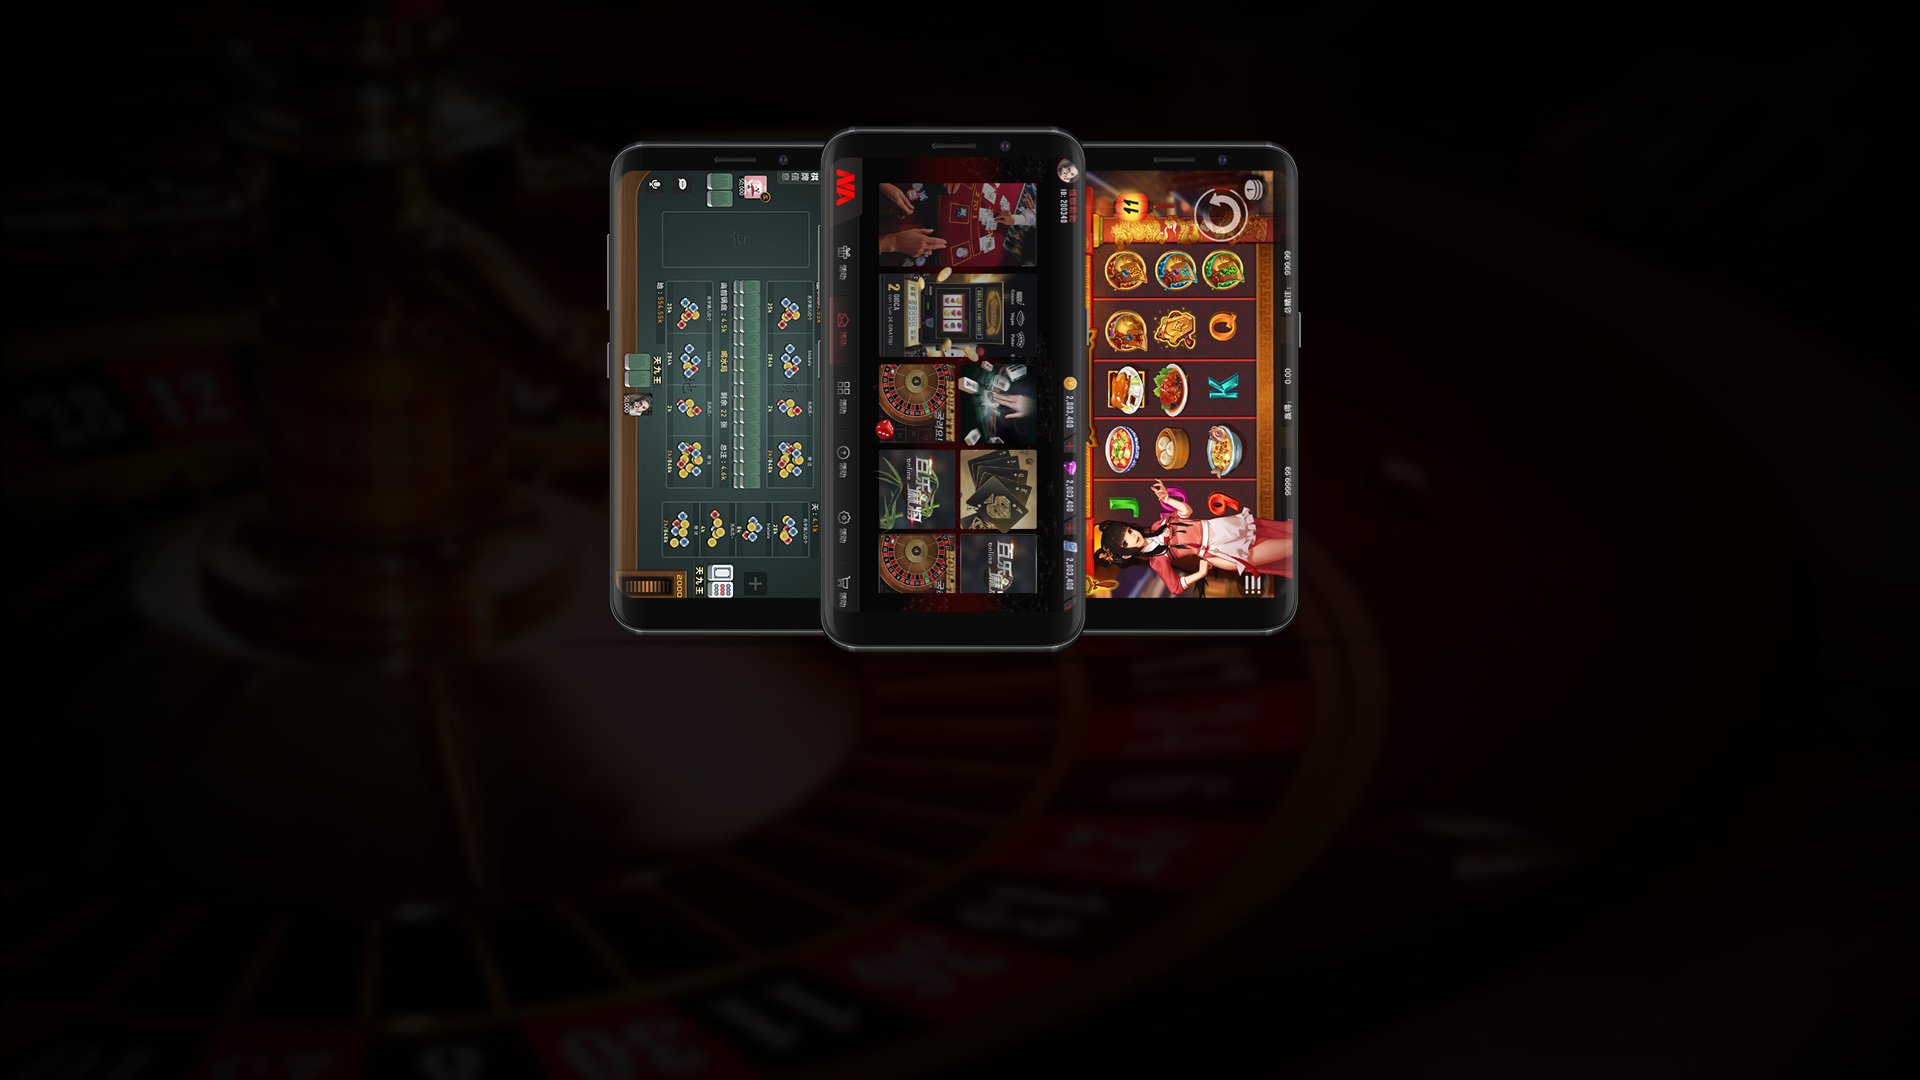
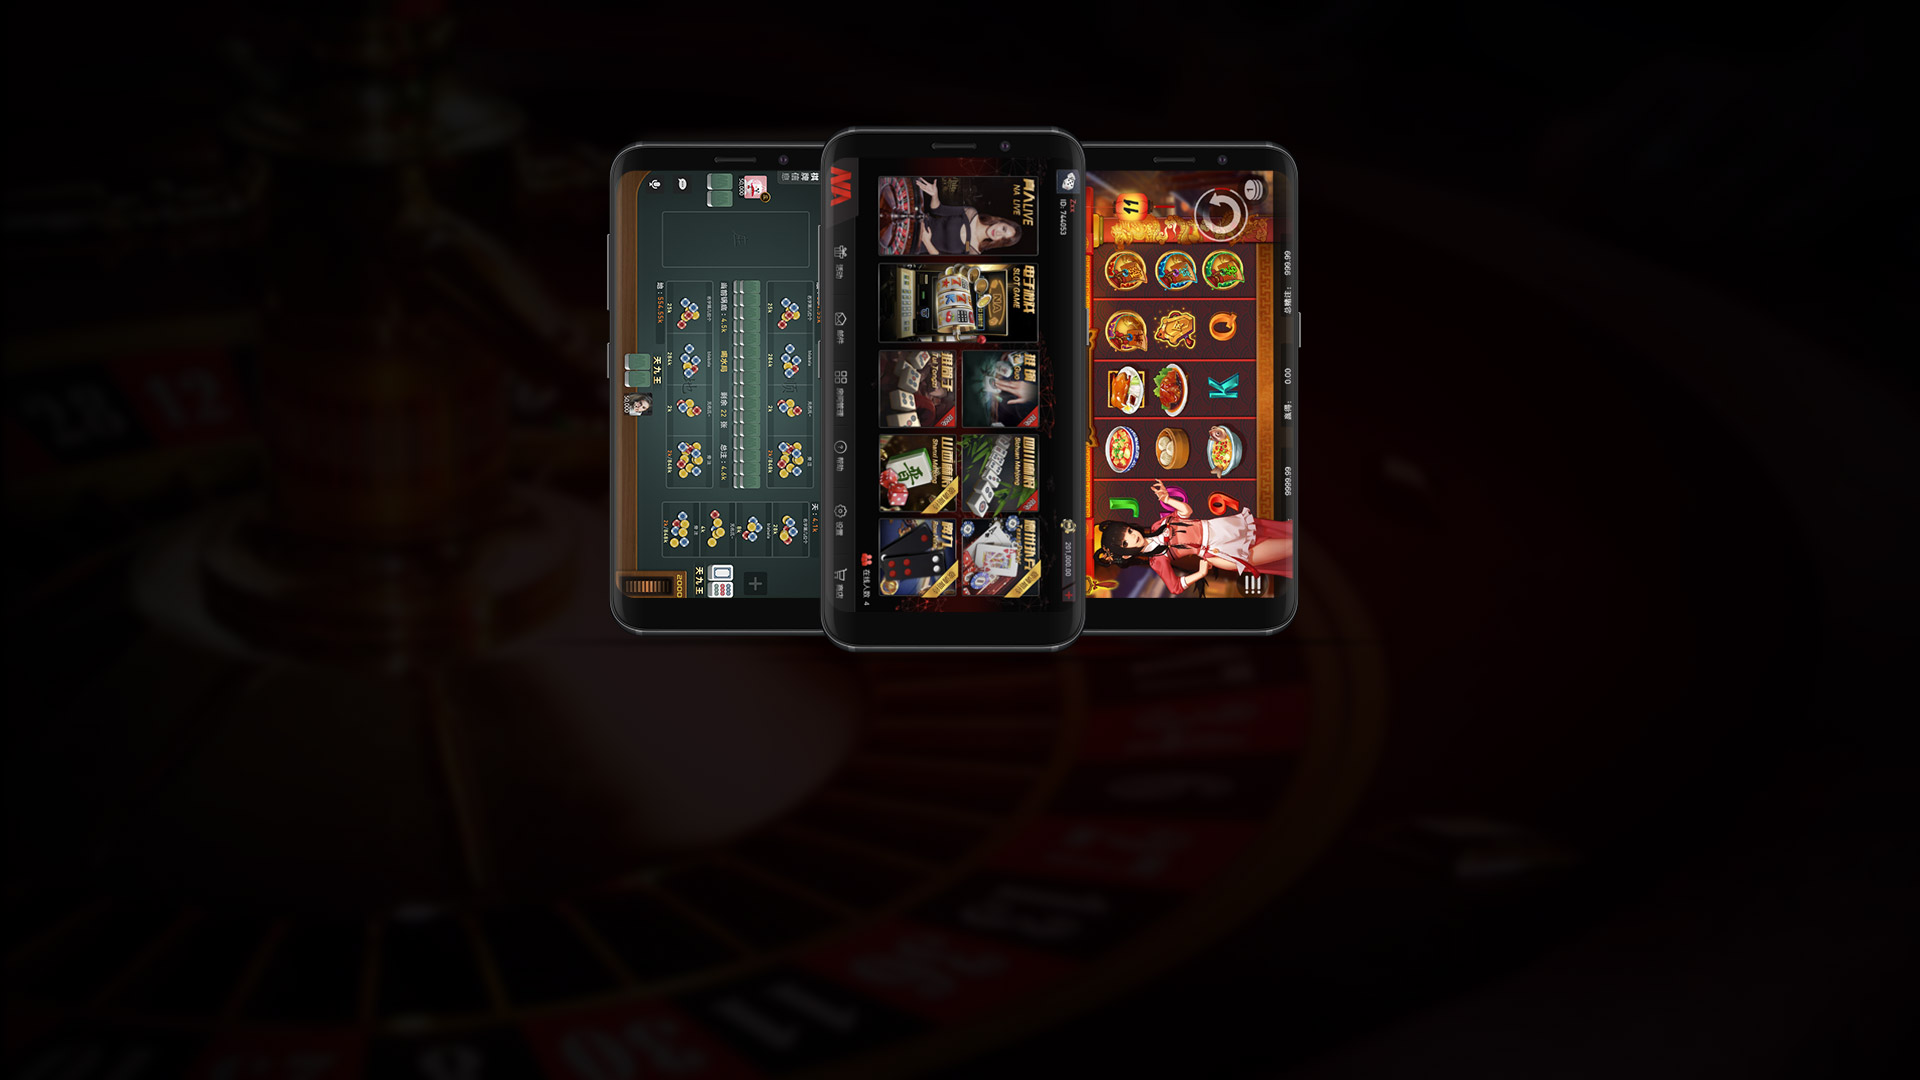
替换官网图片

Changed region(s): [[0.4062, 0.1528, 0.5625, 0.5806]]

diff --git a/NaWeb/src/components/plan.vue b/NaWeb/src/components/plan.vue
@@ -8,7 +8,8 @@
       <ul>
         <li v-for="(item, index) in Solutions" :key="index">
           <a href="javascript:;" class="img">
-            <div><img :src="item.imgUrl" alt=""></div>
+            <!-- <div><img :src="item.imgUrl" alt=""></div> -->
+            <i :style="`background: url(${item.imgUrl}) no-repeat;background-size: cover;`"></i>
           </a>
           <h2>{{item.title}}</h2>
           <!-- <p>{{item.content}}</p> -->
@@ -23,10 +24,10 @@ export default {
   data () {
     return {
        Solutions: [
-         { title: '移动端解决方案', content: '内容文字内容文字内容文字内容文字 保留两排超出给标点符号', imgUrl: '/static/iPad.png'},
-         { title: 'WEB端解决方案', content: '内容文字内容文字内容文字内容文字 保留两排超出给标点符号', imgUrl: '/static/Browser.png'},
-         { title: 'PC端解决方案', content: '内容文字内容文字内容文字内容文字 保留两排超出给标点符号', imgUrl: '/static/Graph.png'},
-         { title: '直播系统解决方案', content: '内容文字内容文字内容文字内容文字 保留两排超出给标点符号', imgUrl: '/static/video.png'}
+         { title: '移动端解决方案', content: '内容文字内容文字内容文字内容文字 保留两排超出给标点符号', imgUrl: '/static/p1.png'},
+         { title: 'WEB端解决方案', content: '内容文字内容文字内容文字内容文字 保留两排超出给标点符号', imgUrl: '/static/p2.png'},
+         { title: 'PC端解决方案', content: '内容文字内容文字内容文字内容文字 保留两排超出给标点符号', imgUrl: '/static/p3.png'},
+         { title: '直播系统解决方案', content: '内容文字内容文字内容文字内容文字 保留两排超出给标点符号', imgUrl: '/static/p4.png'}
        ]
     }
   }
@@ -82,6 +83,19 @@ export default {
         background-size: cover;
         border-radius: 100%;
         margin-bottom: 20px;
+        &:hover i {
+          background-position: 0 -150px!important;
+        }
+        i {
+          position: absolute;
+          top: 50%;
+          left: 50%;
+          transform: translateX(-50%)translateY(-50%);
+          display: inline-block;
+          width: 150px;
+          height: 0;
+          padding-bottom: 150px;
+        }
         img {
           width: 30%;
           position: absolute;
@@ -137,6 +151,14 @@ export default {
       li {
         .img {
           margin-bottom: 13px;
+          &:hover i {
+            background-position: 0 -100px!important;
+          }
+          i {
+            width: 100px;
+            height: 0;
+            padding-bottom: 100px;
+          }
         }
         h2 {
           font-size: 12px;

diff --git a/NaWeb/src/components/planpage.vue b/NaWeb/src/components/planpage.vue
@@ -47,7 +47,7 @@ export default {
       products: [
         {
           title: '塔罗之谜',
-          imgUrl: '/static/ele.png',
+          imgUrl: '/static/ele.jpg',
           content: '  塔罗题材的电子游戏，有着小阿卡那牌【宝剑】【权杖】【圣杯】【星币】元素的符号预示着命运的真相。当出现3个及以上的【命运之轮】时，代表着你即将做一个重大的选择，五色卡牌分别对应五种决定命运的水晶球，跟随着直觉做出选择，带你进入全新的塔罗世界，感受塔罗的神秘力量。',
           tags: [
             {

diff --git a/NaWeb/src/components/n2.vue b/NaWeb/src/components/n2.vue
@@ -2,8 +2,8 @@
   <div class="n2">
     <div class="n2-content">
       <div class="title">
-        <p>N2 PLAN</p>
-        <h1>N2 计划</h1>
+        <p>N² PLAN</p>
+        <h1>N² 计划</h1>
       </div>
       <div class="content">
         <div class="left">
